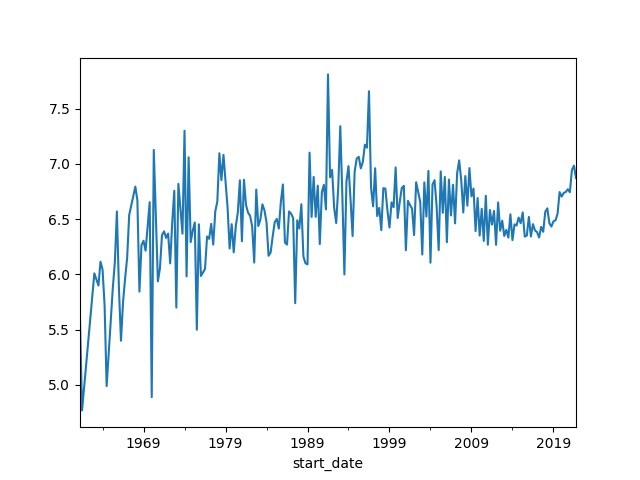
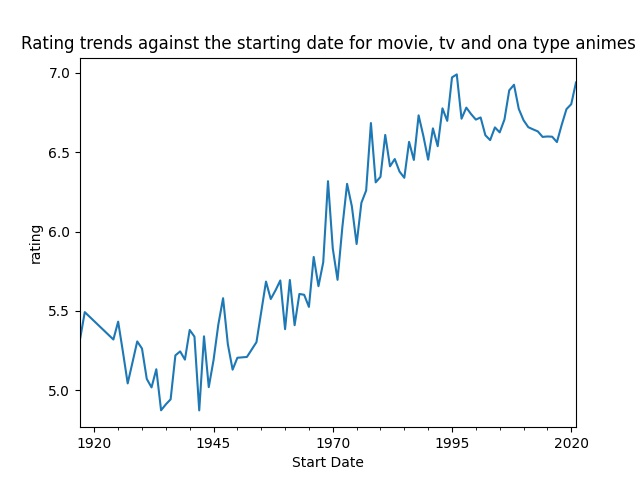
q2 graphs modified

diff --git a/q2.py b/q2.py
@@ -24,13 +24,14 @@ df['start_date'] = pd.to_datetime(df['start_date'])
 df1 = df[((df['media_type'] == 'tv') | (df['media_type']
          == 'ona') | (df['media_type'] == 'movie'))]
 df1 = df1[['start_date', 'mean']]
-df1 = df1.groupby(df1['start_date'].dt.to_period('Q'))['mean'].agg('mean')
-fig = df1.plot().get_figure()
+df1 = df1.groupby(df1['start_date'].dt.to_period('Y'))['mean'].agg('mean')
+fig = df1.plot(ylabel='rating', xlabel='Start Date',
+               title='Rating trends against the starting date for movie, tv and ona type animes').get_figure()
 fig.savefig('choosy-2.jpeg')
 
 # considering all the media types
 df2 = df[['start_date', 'mean']]
-df2 = df2.groupby(df2['start_date'].dt.to_period('Q'))['mean'].agg('mean')
-print(df2)
-fig2 = df2.plot().get_figure()
+df2 = df2.groupby(df2['start_date'].dt.to_period('Y'))['mean'].agg('mean')
+fig2 = df2.plot(ylabel='Rating', xlabel='Start Date',
+                title='Rating trends against the starting date of animes').get_figure()
 fig2.savefig('all-2.jpeg')
